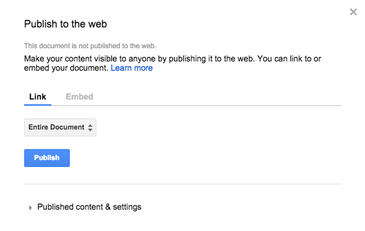
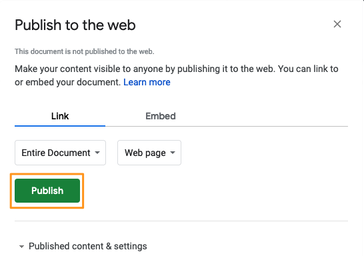
update 'publish' screen image to reflect removal of 'od1' advice

diff --git a/website/templates/_make.html b/website/templates/_make.html
@@ -31,7 +31,7 @@
 
 
                             <p style="clear: both;">
-                                <img class="img-shadow make-step-2" src="static/img/make/publish_to_web_button_small-od1.png" /> In the next window, click the green "Publish" button. When asked,
+                                <img class="img-shadow make-step-2" src="static/img/make/publish_to_web_button_small.png" /> In the next window, click the green "Publish" button. When asked,
                                 "Are you sure…?" click OK. <em>Ignore the URL that appears in the center of the window.</em> Just close the window using the <em>X</em> in the top right corner.
 
                             </p>
